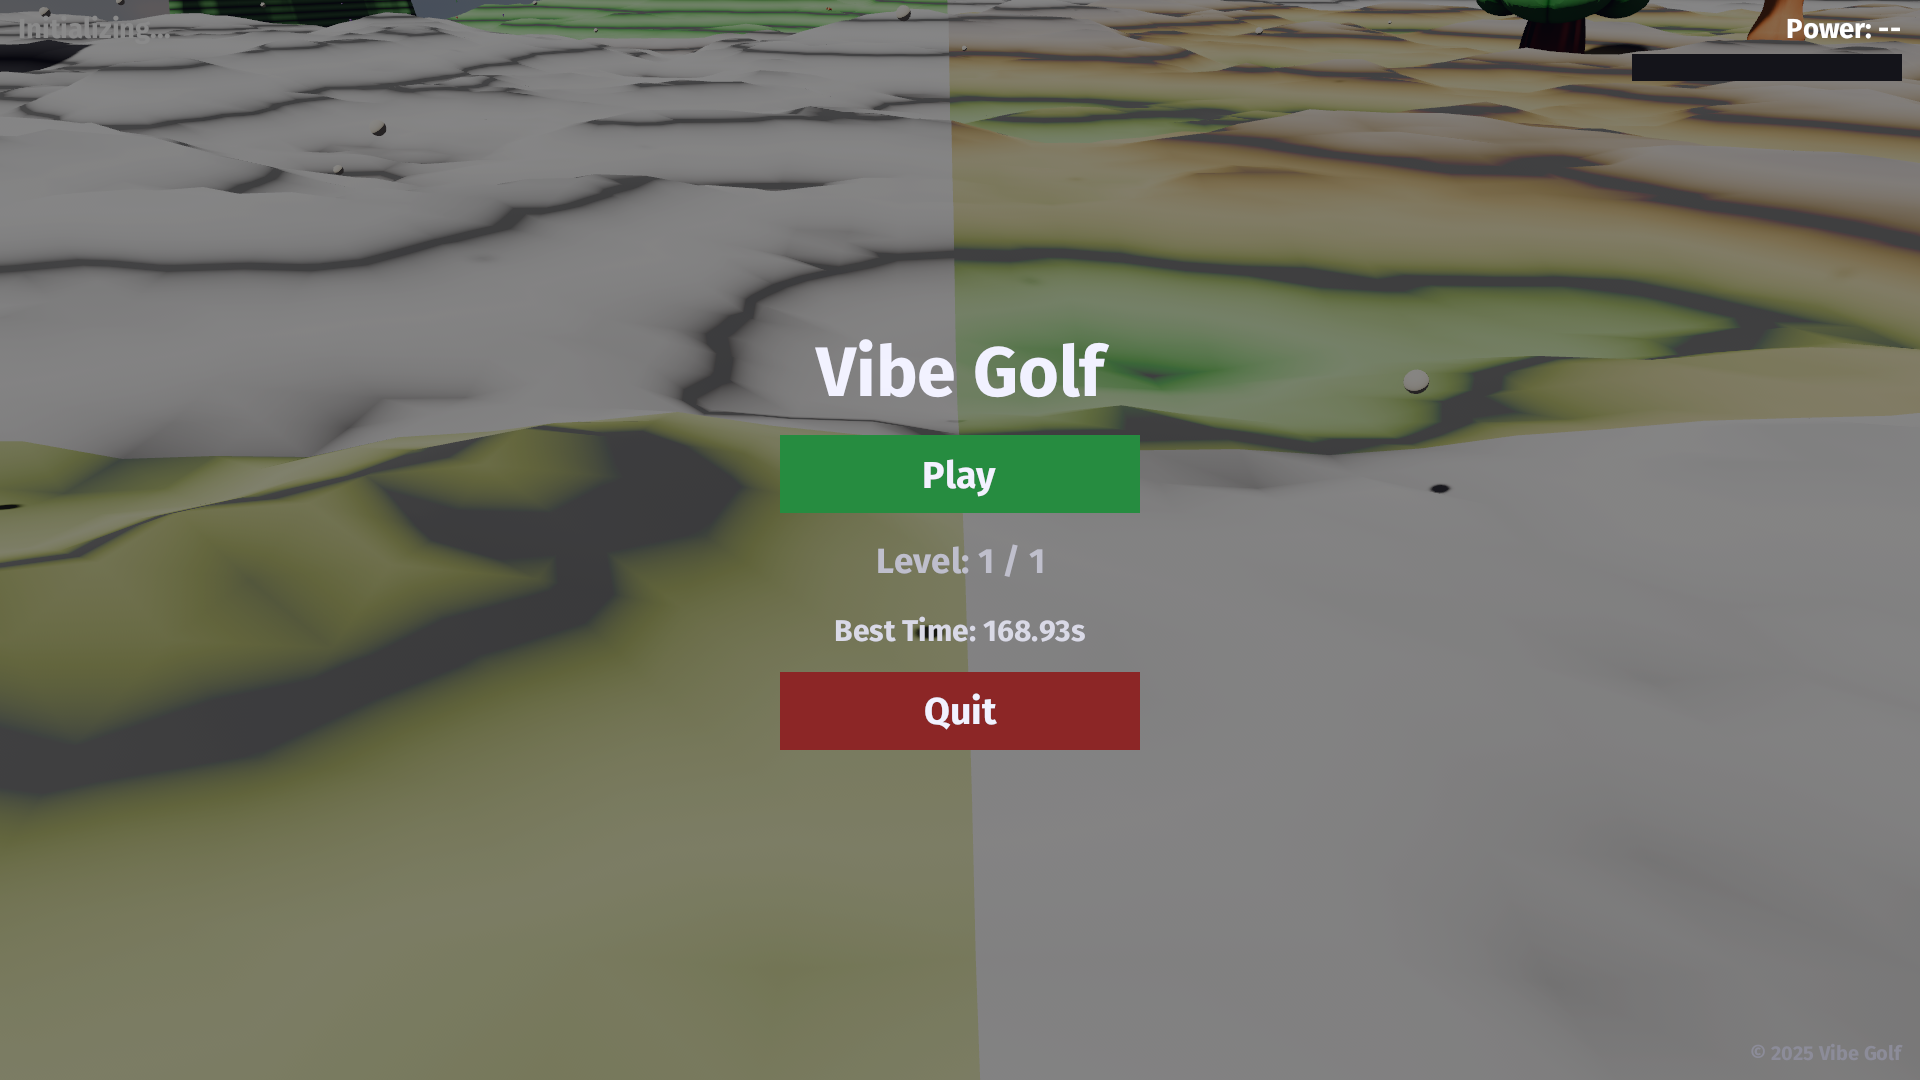
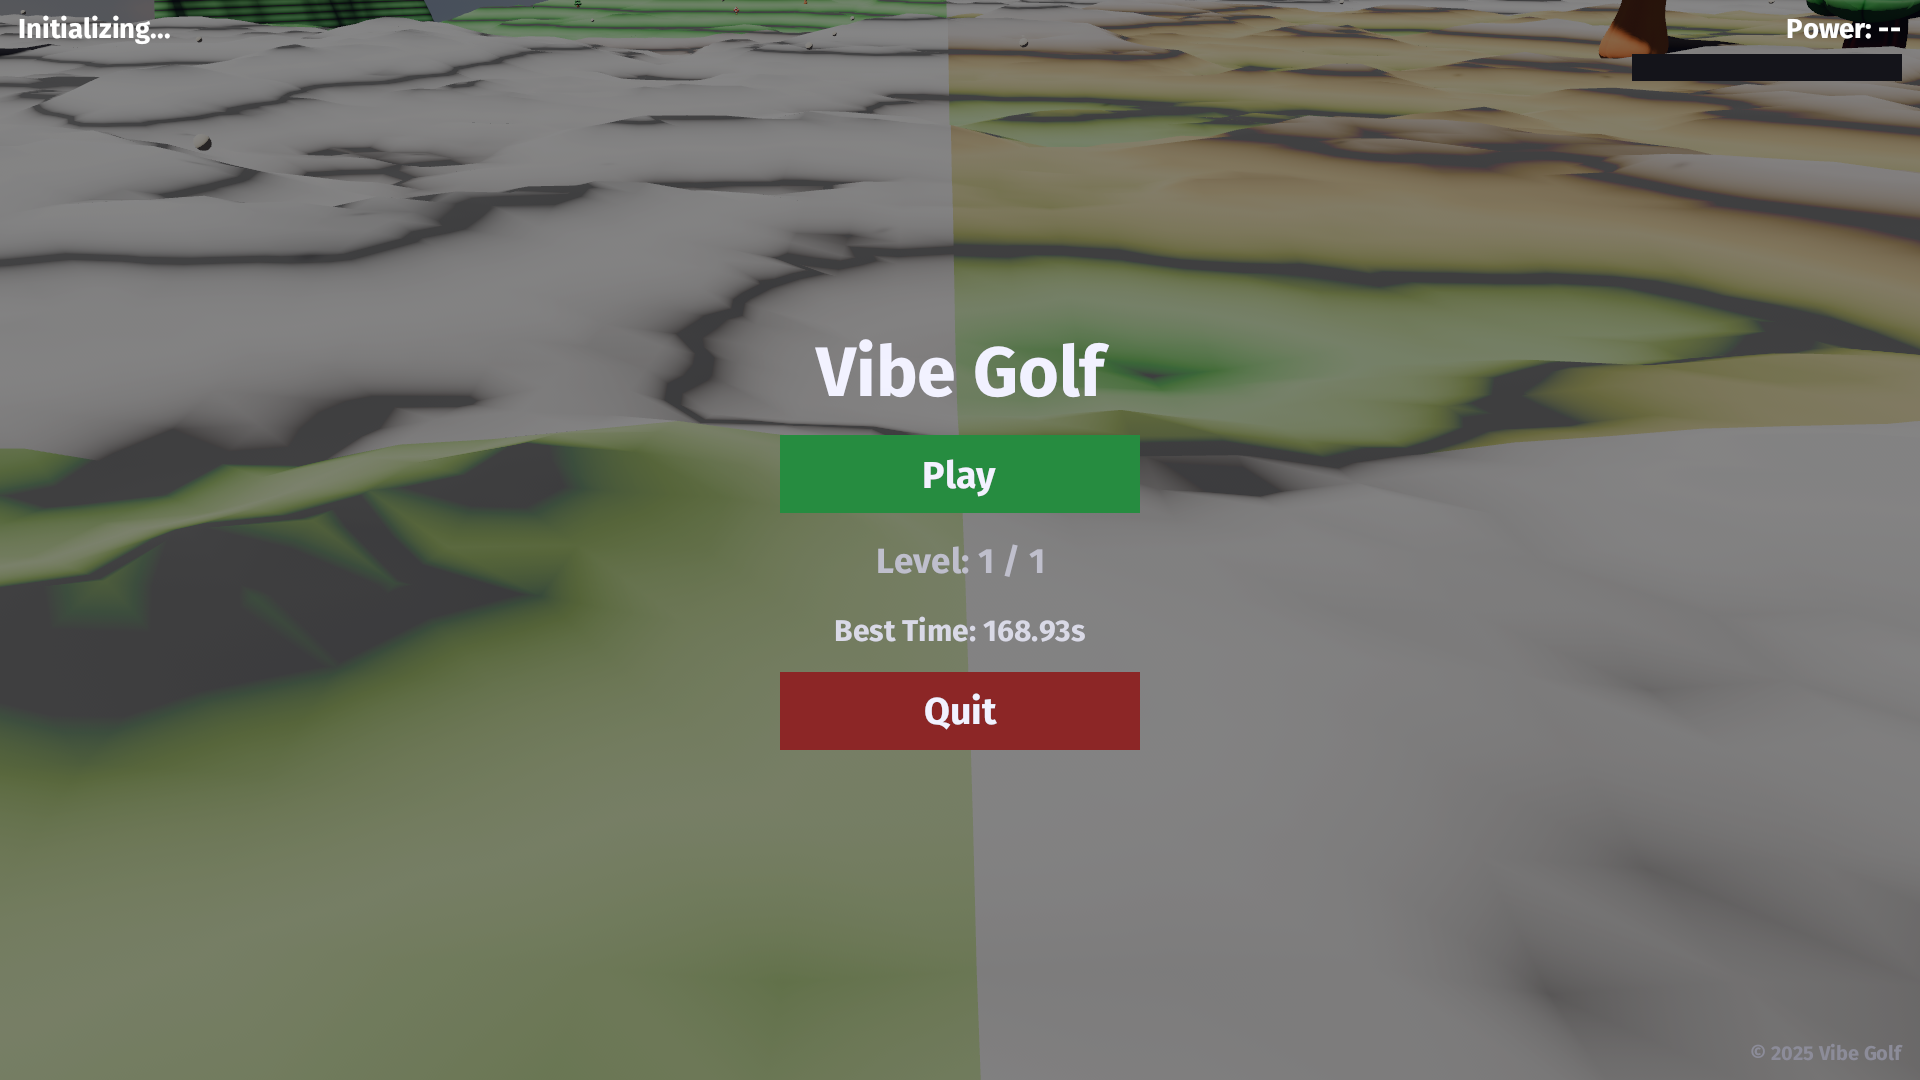
bigger world

diff --git a/src/plugins/terrain.rs b/src/plugins/terrain.rs
@@ -75,8 +75,8 @@ impl Default for TerrainConfig {
             rim_peak: 150.0,
             rim_height: 10.0,
             vegetation_per_chunk: 40,
-            mountain_height: 28.0,
-            valley_depth: 12.0,
+            mountain_height: 20.0,
+            valley_depth: 8.0,
         }
     }
 }
@@ -125,11 +125,11 @@ impl TerrainSampler {
         let valley_t = smooth(cfg.valley_end, cfg.valley_start, macro_v); // reversed (higher when macro_v lower)
 
         // Scale base undulations: valleys slightly smoother, mountains amplify relief
-        let relief_scale = 0.75 + 0.55 * mountain_t + 0.25 * valley_t;
+        let relief_scale = 0.70 + 0.40 * mountain_t + 0.20 * valley_t;
 
         // Add large scale offsets: uplift mountains, depress valleys
-        let uplift = mountain_t.powf(1.35) * cfg.mountain_height;
-        let depress = valley_t.powf(1.25) * cfg.valley_depth;
+        let uplift = mountain_t.powf(1.15) * cfg.mountain_height;
+        let depress = valley_t.powf(1.05) * cfg.valley_depth;
 
         (base * relief_scale + uplift - depress) * cfg.amplitude
     }
@@ -181,7 +181,7 @@ impl Plugin for TerrainPlugin {
         app.insert_resource(TerrainConfig::default())
             .add_systems(PreStartup, init_sampler)
             .insert_resource(LoadedChunks::default())
-            .add_systems(Update, (update_terrain_chunks, populate_chunk_vegetation));
+            .add_systems(Update, (update_terrain_chunks, populate_chunk_vegetation, align_vegetation));
     }
 }
 
@@ -329,6 +329,34 @@ fn populate_chunk_vegetation(
                 placed += 1;
             }
         });
+    }
+}
+
+fn align_vegetation(
+    sampler: Res<TerrainSampler>,
+    mut q_added: Query<&mut Transform, (With<VegetationInstance>, Added<VegetationInstance>)>,
+) {
+    for mut t in &mut q_added {
+        let x = t.translation.x;
+        let z = t.translation.z;
+        let h = sampler.height(x, z);
+        t.translation.y = h;
+        let n = sampler.normal(x, z);
+
+        // Limit tilt for stylization (max ~17 degrees)
+        let max_tilt = 0.30_f32;
+        let up = Vec3::Y;
+        let angle = up.angle_between(n);
+        if angle > 1e-3 {
+            let clamped = angle.min(max_tilt);
+            let axis = up.cross(n).normalize_or_zero();
+            if axis.length_squared() > 0.0 {
+                let q = Quat::from_axis_angle(axis, clamped);
+                // Preserve existing yaw (world up rotation)
+                let yaw = t.rotation.to_euler(EulerRot::YXZ).0;
+                t.rotation = Quat::from_rotation_y(yaw) * q;
+            }
+        }
     }
 }
 

diff --git a/src/plugins/camera.rs b/src/plugins/camera.rs
@@ -206,16 +206,8 @@ fn orbit_camera_apply(
 
     let raw_target = ball_t.translation + Vec3::Y * cfg.target_height_offset;
 
-    // Speed-limited target smoothing
-    let dt = time.delta_seconds();
-    let max_target_step = cfg.target_max_speed * dt;
-    let to_target = raw_target - follow.smoothed_target;
-    let dist_t = to_target.length();
-    if dist_t <= max_target_step || dist_t == 0.0 {
-        follow.smoothed_target = raw_target;
-    } else {
-        follow.smoothed_target += to_target / dist_t * max_target_step;
-    }
+    // Immediate target (no smoothing / perfect follow)
+    follow.smoothed_target = raw_target;
 
     // Desired camera position (based on smoothed target)
     let rot = Quat::from_rotation_y(state.yaw) * Quat::from_rotation_x(state.pitch);
